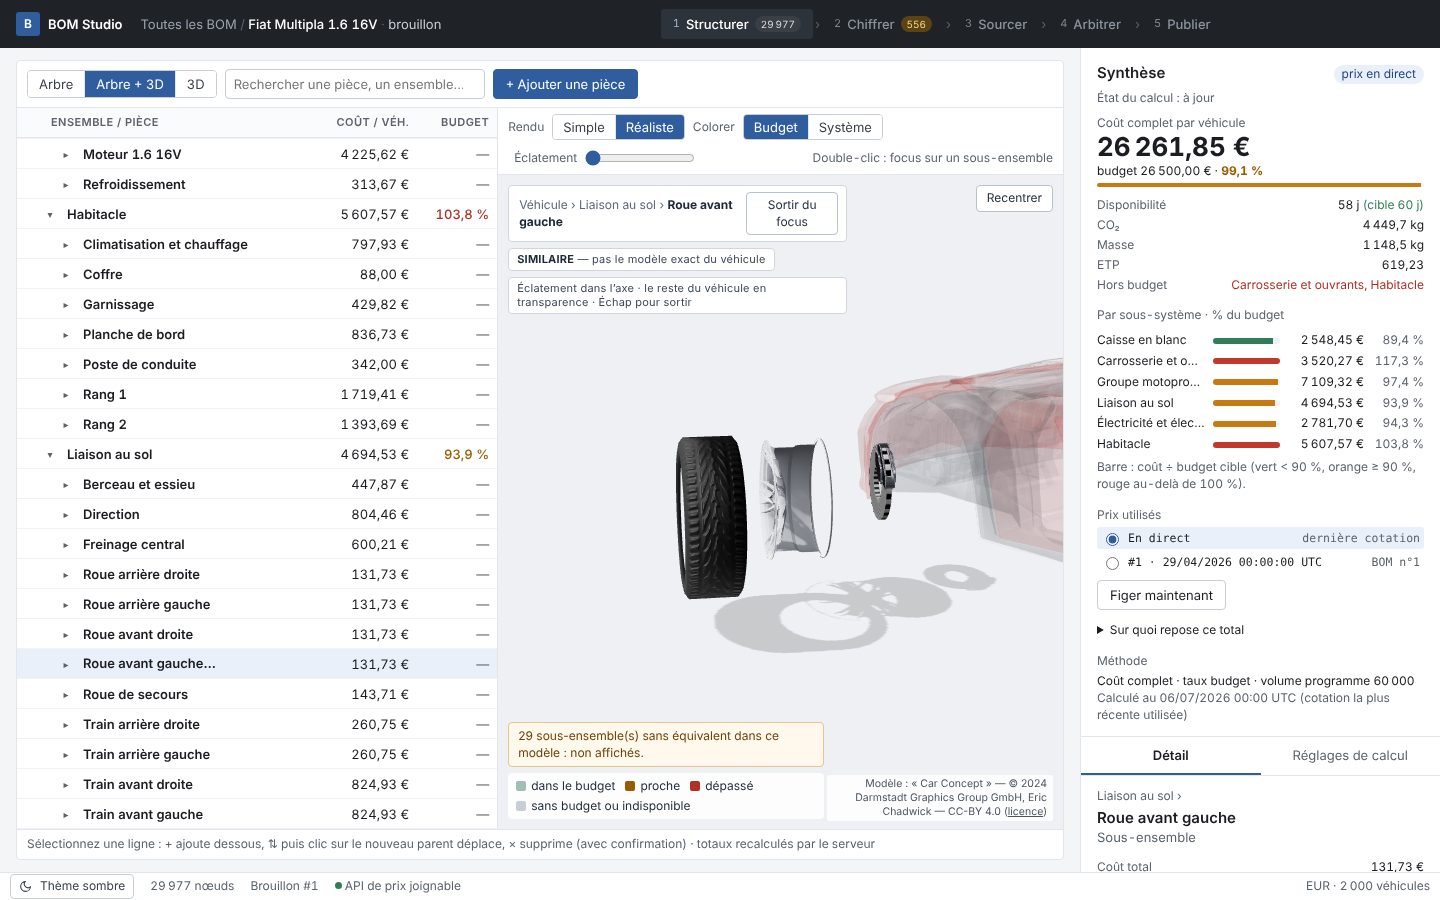
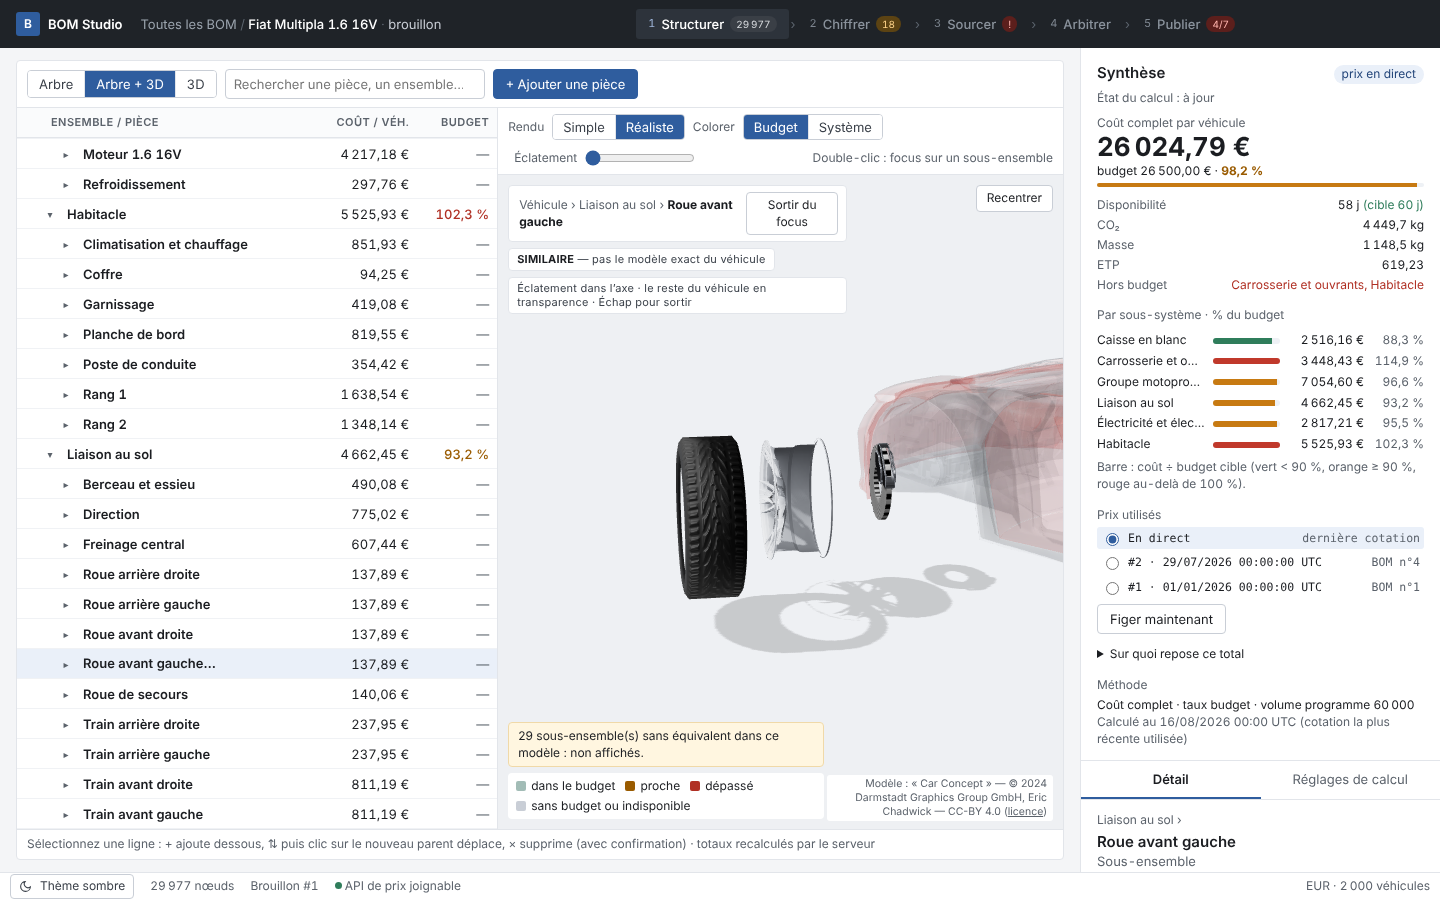
v2-lot-f: T18 - vérification réelle de la partie 2, captures clair et sombre, état du lot
Livrable §9 (partie 2) :
1. Ce que fait le changement : front branché sur les lots B et E — api.ts (routes), home/AllBoms.tsx
   (versions par famille, aperçu), bom/analysis/* (Chiffrer, Sourcer), bom/ProfileSettings.tsx et
   profile.ts (profil), bom/Comparison.tsx et Ideas.tsx (Arbitrer), steps/Publier.tsx (contrôles,
   publication tracée), App.tsx (badges), bom/labels.ts (libellés arrondis), vehicle3d (fond du thème),
   useLoad.ts (lecture d'une analyse), money.ts (écart signé, %, tri exact par valeur absolue).
2. Panne prévisible : publication d'un brouillon qui utilise un contrat expiré (brouillon B) ; ou un
   avertissement non justifié.
3. Tests : « Publier sur le brouillon B : refusée (409) » et « avertissements non justifiés surlignés
   (422) » (bom-versions-v2.spec.ts) ; vérifié aussi en vrai (409 sur B, 422 puis 201 sur la BOM 4).
4. Non fait / non vérifié : Firefox/WebKit et CI ; analyses sans cache (1 à 7 s par carte) ; coûts lus
   à des instants différents en prix en direct ; % des versions non colorés ; pas d'analyse de snapshot ;
   BOM 4 de démo créée à la main sur la base de dev (pas dans le seed).

diff --git a/.specs/v2-lot-f/state.md b/.specs/v2-lot-f/state.md
@@ -1,8 +1,8 @@
 ---
 id: v2-lot-f
-status: in-progress
+status: review
 branch: v2-lot-f
-current_task: T9
+current_task: null
 started: 2026-11-17
 updated: 2026-11-17
 ---
@@ -11,8 +11,7 @@ updated: 2026-11-17
 
 ## Progress
 
-Partie 1 terminée (T1 à T8), en attente de relecture. Partie 2 (versions, contrôles de publication,
-analyses, profils : lots B et E) : après leur fusion.
+Parties 1 (T1 à T8) et 2 (T9 à T18) terminées, en attente de relecture humaine.
 
 ## Task Log
 
@@ -38,6 +37,21 @@ analyses, profils : lots B et E) : après leur fusion.
 - 2026-11-17 T8 — vérification réelle et captures (rapport ci-dessous).
 - 2026-11-17 Partie 2 — lots B et E fusionnés par le coordinateur (eb8439b, ed39432). Base neuve `stp_lot_f2`
   (goose → 00014, seed : V1 = snapshot 1, brouillon A = BOM 1, brouillon B = BOM 3, 5 pistes sur B).
+- 2026-11-17 T9 — client API des routes B et E, spec de la partie 2. (premier commit de la partie 2)
+- 2026-11-17 T10 — Toutes les BOM par famille de versions, aperçu avec écart et contrôles. (b516cd6)
+- 2026-11-17 T11 — Chiffrer : sensibilité (5/10 %), pièces influentes, anomalies €/kg ; existant replié. (40d947e)
+- 2026-11-17 T12 — Sourcer › Vue d'ensemble. Bug évité : deux navigations successives (onglet puis
+  fournisseur) écrasaient l'onglet ; une seule navigation. (61eeb69)
+- 2026-11-17 T13 — profil de véhicule, classement des alternatives expliqué. Vérifié sur l'API réelle (BOM 3) :
+  nœud 45017 (Écrou à embase M8) classé 20, 18, 19 en familiale et 18, 19, 20 en sportive. (a7a42e6)
+- 2026-11-17 T14 — Arbitrer : comparaison, causes triées, pièces modifiées, pistes. (f0c4495)
+- 2026-11-17 T15 — Publier. Bug trouvé à la capture : la classe `block` d'un contrôle bloquant reprenait le
+  style des cartes `.block` → classes `lvl-*`. (7829b4a)
+- 2026-11-17 T16 — badges des étapes. (07fa675)
+- 2026-11-17 T17 — libellés de cascade arrondis à l'affichage, 3D au thème sombre. Bug évité : « budget 2026 »
+  formaté « 2 026,00 » par une première version de l'arrondi (entiers laissés intacts, test). (829db77)
+- 2026-11-17 T18 — e2e (bom-versions-v2.spec.ts, 7 tests × 2 projets) et e2e existants mis à jour ; vérification
+  réelle, captures 07 à 14 et reprises de 02, 03, 05. (3e19f9e et ce commit)
 
 ## Decisions
 
@@ -60,6 +74,21 @@ analyses, profils : lots B et E) : après leur fusion.
 - D6 : pourcentages affichés à 1 décimale (« 97,2 % ») et non arrondis à l'entier comme la maquette, pour qu'un
   89,6 % vert ne s'affiche pas « 90 % ».
 - D7 : sous 760 px, « Arbre + 3D » empile l'arbre au-dessus de la 3D.
+- D8 (partie 2) : Toutes les BOM regroupe par famille (GET /versions renvoie toute la famille, dédoublonnée) ;
+  « % du budget » des versions sans couleur (l'API ne donne pas l'état, seulement le pourcentage).
+- D9 : causes d'écart triées côté front par montant absolu (demandé), comparaison exacte des chaînes (BigInt) ;
+  l'ordre de l'API (ordre du pont, ADR 0032) n'est pas affiché.
+- D10 : un pays est « exposé au change » (orange) si l'un de ses fournisseurs facture hors devise de la BOM —
+  étiquette tirée des fournisseurs renvoyés par sourcing, aucun montant recalculé ; l'API ne donne pas la part
+  exposée par pays.
+- D11 : changer de profil passe par `data.run` (relecture de l'arbre) pour que les alternatives se relisent ;
+  coût : une relecture d'arbre (~1 s), aucun total ne change.
+- D12 : badges : Chiffrer = anomalies €/kg (la Chiffrer en fait sa liste principale) ; Sourcer = « ! » si le
+  contrôle `expired_contracts` n'est pas ok (pas de compte de contrats hors de l'analyse sourcing, 7 s) ;
+  Arbitrer sans badge (aucune donnée « A·B » à afficher).
+- D13 : brouillon publiable pour la démo : le contrat Arden expire au 31/03 et touche Multipla, brouillon B et
+  Valhalla ; une BOM « Démo publication (kit freinage) » (BOM 4, 3 pièces hors Arden) a été créée sur la base de
+  dev pour vérifier une publication réelle. Elle n'est pas dans le seed.
 
 ## Blockers
 
@@ -99,3 +128,42 @@ Non fait / non vérifié :
 - Libellés de la cascade tels que l'API les construit (décimales brutes « 1.1458828780 »).
 - La 3D reste sur fond clair en thème sombre (styles du lot D).
 - Profil de véhicule : emplacement seulement (lot E, partie 2).
+
+### 2026-11-17 — T18 (partie 2)
+
+Environnement : base neuve `stp_lot_f2` (goose → 00014, seed demo-v4 avec versions et pistes), API de prix
+`:8096`, serveur `:8086`, Vite `:5186`. Temps simulé au moment des contrôles : avril → septembre 2026 (contrat
+Arden expiré).
+
+| Vérification | Résultat |
+|---|---|
+| `go vet ./...`, `golangci-lint` | PASS — `0 issues.` (aucun fichier Go modifié en partie 2) |
+| `go test -count=1 ./...` (base `stp_lot_f_test` migrée en 14) | PASS — 18 paquets `ok` |
+| `npm ci`, `npm audit --omit=dev --audit-level=high` | PASS — 0 vulnérabilité |
+| `npm run lint` / `npx tsc -b` / `npx vite build` | PASS ; `three` seulement dans `Vehicle3DView-*.js` ; entrée 401 kB (117 kB gzip) |
+| `npm run test:unit` | PASS — 27/27 |
+| Playwright chromium desktop + mobile (Chrome système, config locale non commitée) | PASS — 98/98 ; mutation (tri des causes retiré) → test rouge |
+| Firefox, WebKit, CI | NON EXÉCUTÉ |
+
+Contrôles réels (navigateur sur l'appli complète) :
+- Publication du brouillon B (BOM 3) : **409**, « Publication bloquée par : Contrat expiré encore utilisé
+  (Arden Composites, 31/03) » ; aucun snapshot créé.
+- Publication de la BOM 4 : sans justification **422** (« Justification requise pour : Prix figés dans un
+  snapshot »), puis avec justification **201** → snapshot #2 « V1 » avec note, proposé par Brian P., validé par
+  Joe ; contrôles figés et justification visibles sur le snapshot.
+- Comparaison V1 → B : causes remise de contrat, structure (4 haut-parleurs), cotations, changement d'offre ;
+  6 pièces modifiées ; liens vers les nœuds.
+- Profil familiale → sportive : classement du nœud 45017 changé (API).
+
+Captures relues (1440×900, clair et sombre) : 07 Toutes les BOM + aperçu, 08 Chiffrer, 09 Sourcer, 10 Arbitrer
+(comparaison, pistes), 11 Réglages (profil) + alternatives, 12 Publier refusé sur B, 13 Publier réussi (clair),
+14 snapshot publié avec sa trace (sombre) ; reprises 02/03 (3D, fond sombre) et 05 (libellés arrondis).
+
+Non fait / non vérifié :
+- Les écrans d'analyse font une requête par carte (1 à 7 s chacune sur 30 000 nœuds), sans cache : chaque
+  changement d'étape relance les calculs ; les badges relisent anomalies et contrôles à chaque relecture d'arbre.
+- Prix en direct : coût de la Synthèse, des versions et de la comparaison lus à des instants différents peuvent
+  différer d'une cotation (constaté : écarts de quelques dizaines d'euros entre écrans).
+- « % du budget » des versions et des chocs non colorés (l'API ne donne pas l'état).
+- Aucune analyse sur un snapshot (E12) : encart explicite.
+- Ajout de piste : `draft_bom_id` toujours null depuis le formulaire.

diff --git a/.specs/v2-lot-f/spec.md b/.specs/v2-lot-f/spec.md
@@ -4,7 +4,7 @@ title: V2 lot F — intégration front (partie 1 : 3D dans Structurer, budgets, 
 source: manual
 source_ref: docs/v2/plan-implementation.md (vague 3, lot F), maquettes docs/v2/maquettes/I4-1, I4-2, I4-3
 created: 2026-11-17
-status: in-progress
+status: review
 priority: P1
 depends_on: [v2-lot-a, v2-lot-c, v2-lot-d]
 branch: v2-lot-f
@@ -110,27 +110,27 @@ Contrats réels : `.specs/v2-lot-b/state.md` (versions, compare, publication-che
 `.specs/v2-lot-e/state.md` (fx-sensitivity, price-drivers, sourcing, analysis/anomalies, profils), ADR 0032,
 0033, 0036, 0037. Seed : V1 publiée (snapshot 1), brouillon A (BOM 1), brouillon B (BOM 3), 5 pistes.
 
-- [ ] T9: Client API des lots B et E et spec de la partie 2
+- [x] T9: Client API des lots B et E et spec de la partie 2
   - **Files**: `web/src/api.ts`, `.specs/v2-lot-f/*`
   - **Done when**: types et appels pour toutes les routes ci-dessus, `tsc` vert.
-- [ ] T10: Toutes les BOM avec versions (`GET /boms/{id}/versions`) et aperçu
+- [x] T10: Toutes les BOM avec versions (`GET /boms/{id}/versions`) et aperçu
   - **Files**: `web/src/home/AllBoms.tsx`
   - **Done when**: versions sous chaque BOM (date à la seconde, coût, % budget, prix, proposé/validé par), aperçu.
-- [ ] T11: Chiffrer : sensibilité (choc 5/10 %), pièces qui pèsent, anomalies €/kg par impact ; existant plus discret
+- [x] T11: Chiffrer : sensibilité (choc 5/10 %), pièces qui pèsent, anomalies €/kg par impact ; existant plus discret
   - **Files**: `web/src/bom/steps/Chiffrer.tsx`, `web/src/bom/analysis/*`
-- [ ] T12: Sourcer › Vue d'ensemble (`analysis/sourcing`)
+- [x] T12: Sourcer › Vue d'ensemble (`analysis/sourcing`)
   - **Files**: `web/src/bom/steps/Sourcer.tsx`, `web/src/bom/analysis/*`
-- [ ] T13: Profil de véhicule dans les réglages ; classement des alternatives selon le profil
+- [x] T13: Profil de véhicule dans les réglages ; classement des alternatives selon le profil
   - **Files**: `web/src/bom/ProfileSettings.tsx`, `web/src/bom/StrategyPanel.tsx`
-- [ ] T14: Arbitrer : comparaison, causes triées, pièces modifiées, pistes de réduction
+- [x] T14: Arbitrer : comparaison, causes triées, pièces modifiées, pistes de réduction
   - **Files**: `web/src/bom/steps/Arbitrer.tsx`, `web/src/bom/Ideas.tsx`
-- [ ] T15: Publier : contrôles, justifications, versions, note et noms, publication 409/422
+- [x] T15: Publier : contrôles, justifications, versions, note et noms, publication 409/422
   - **Files**: `web/src/bom/steps/Publier.tsx`
-- [ ] T16: Badges des étapes alimentés par les données (ou retirés)
+- [x] T16: Badges des étapes alimentés par les données (ou retirés)
   - **Files**: `web/src/App.tsx`
-- [ ] T17: Libellés de cascade arrondis à l'affichage ; fond de la 3D selon le thème
+- [x] T17: Libellés de cascade arrondis à l'affichage ; fond de la 3D selon le thème
   - **Files**: `web/src/bom/CostBreakdown.tsx`, `web/src/features/vehicle3d/*`, `web/src/ui/tokens.css`
-- [ ] T18: e2e (comparaison V1 → B et causes, publication refusée sur B, profil → classement), vérification
+- [x] T18: e2e (comparaison V1 → B et causes, publication refusée sur B, profil → classement), vérification
   réelle, captures clair/sombre, état
   - **Files**: `web/e2e/*`, `docs/v2/captures/lot-f/*`, `.specs/v2-lot-f/state.md`
 
